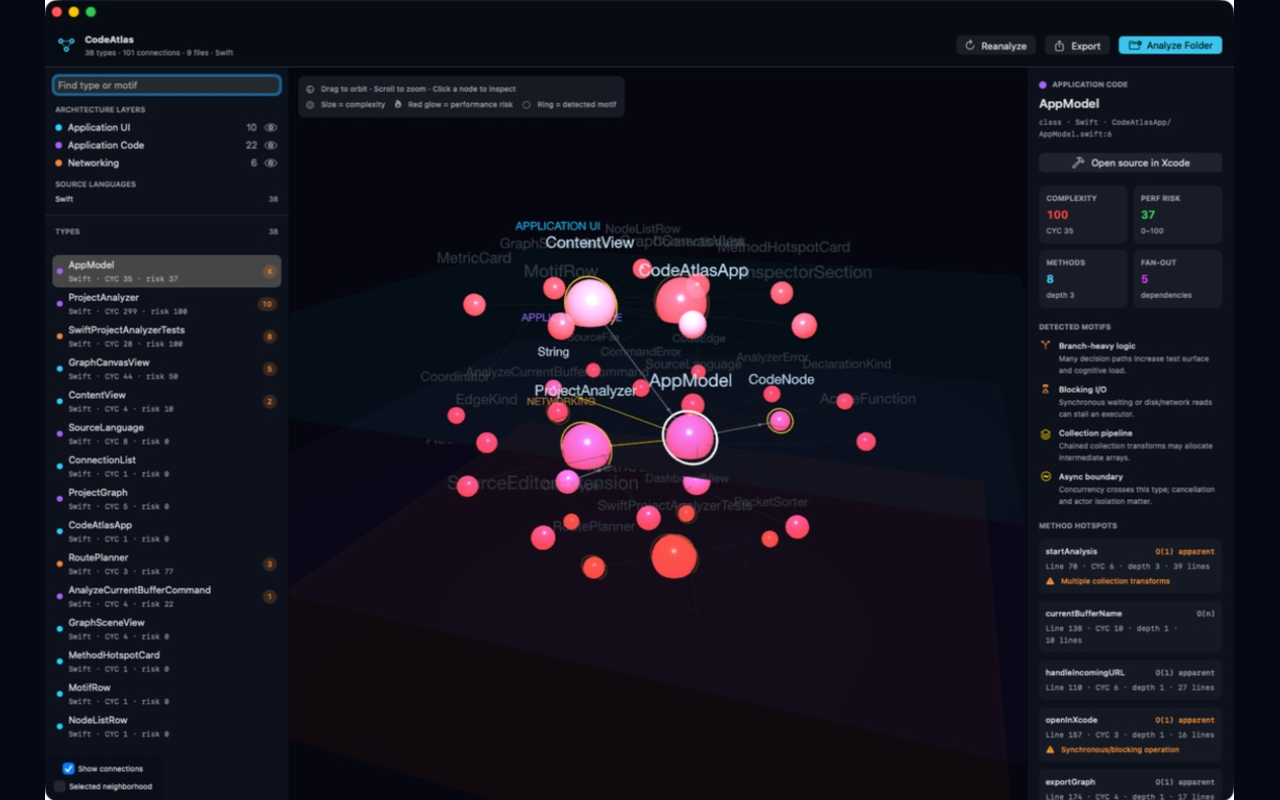
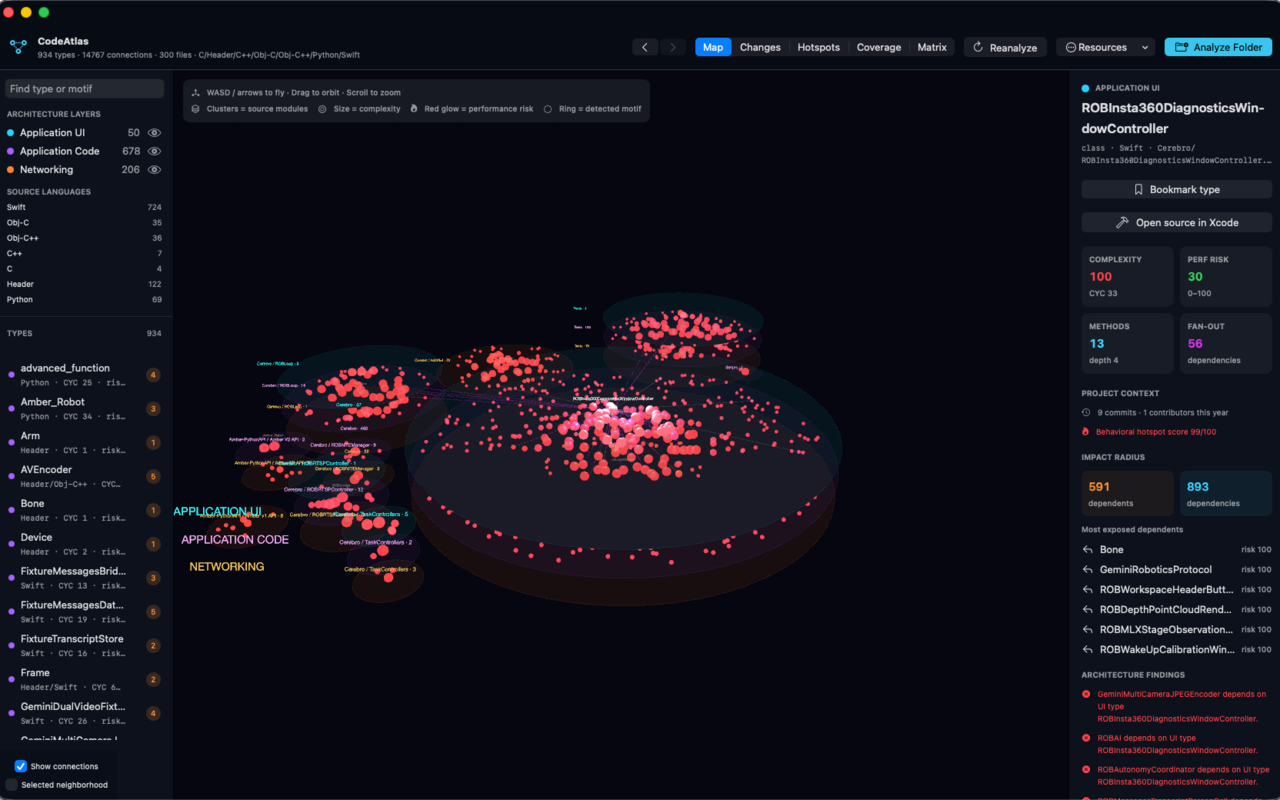
Show live CodeAtlas analysis and matrix

diff --git a/layouts/codeatlas/single.html b/layouts/codeatlas/single.html
@@ -41,22 +41,41 @@
     </div>
   </section>
 
-  <section id="review" class="codeatlas-story codeatlas-story--split" aria-labelledby="review-title">
+  <section id="analysis-progress" class="codeatlas-story codeatlas-story--split" aria-labelledby="analysis-progress-title">
     <div class="codeatlas-story__copy">
-      <p class="codeatlas-kicker">Git-aware review</p>
-      <h2 id="review-title">A diff tells you what changed. CodeAtlas shows what the change can reach.</h2>
-      <p>Choose a branch, tag, or commit as the baseline. CodeAtlas overlays added and modified files on the architecture, then walks dependencies in both directions to expose upstream requirements and downstream blast radius.</p>
+      <p class="codeatlas-kicker">Live analysis, without the blind wait</p>
+      <h2 id="analysis-progress-title">Every phase shows its work.</h2>
+      <p>Large repositories take real work to understand. CodeAtlas now reports overall progress, the active phase, exact file counts, and a live console while your graph is built.</p>
       <dl class="codeatlas-feature-list">
-        <div><dt>Baseline comparison</dt><dd>Review the current working tree against any Git revision without leaving the app.</dd></div>
-        <div><dt>Impact radius</dt><dd>Traverse every transitive dependent, not only the first visible edge.</dd></div>
-        <div><dt>Path finding</dt><dd>Reveal the shortest architectural path between the selected symbol and a suspected consumer.</dd></div>
-        <div><dt>Navigation memory</dt><dd>Move back and forward through selections, or bookmark the nodes that matter to the review.</dd></div>
+        <div><dt>Stage progress</dt><dd>Follow discovery, parsing, indexing, dependency linking, call enrichment, and graph metrics.</dd></div>
+        <div><dt>Per-file activity</dt><dd>See which source file is being read, parsed, indexed, or enriched right now.</dd></div>
+        <div><dt>Live console</dt><dd>Review timestamped events in place or open the full log when you need more detail.</dd></div>
+        <div><dt>In your control</dt><dd>Stop a run at any time, then reanalyze when the project is ready.</dd></div>
       </dl>
     </div>
     <figure class="codeatlas-story__screen">
-      {{ $cerebro := (resources.Get "images/products/codeatlas/codeatlas-cerebro.png").Process "webp q84" }}
-      <img src="{{ $cerebro.RelPermalink }}" width="{{ $cerebro.Width }}" height="{{ $cerebro.Height }}" alt="CodeAtlas visualizing the clustered architecture of the Cerebro robotics project" loading="lazy" decoding="async">
-      <figcaption><span>Cerebro project</span><strong>Clusters expose subsystem boundaries</strong></figcaption>
+      {{ $progress := (resources.Get "images/products/codeatlas/codeatlas-progress.png").Process "webp q84" }}
+      <img src="{{ $progress.RelPermalink }}" width="{{ $progress.Width }}" height="{{ $progress.Height }}" alt="CodeAtlas showing analysis progress and timestamped per-file console output while indexing the Cerebro robotics project" loading="lazy" decoding="async">
+      <figcaption><span>Cerebro / 300 files</span><strong>Progress and console output stay visible</strong></figcaption>
+    </figure>
+  </section>
+
+  <section id="dependency-matrix" class="codeatlas-story codeatlas-story--split" aria-labelledby="dependency-matrix-title">
+    <div class="codeatlas-story__copy">
+      <p class="codeatlas-kicker">Responsive at large-project scale</p>
+      <h2 id="dependency-matrix-title">Open the matrix. Keep moving.</h2>
+      <p>The dependency matrix is prepared on a background index and focuses on the most-connected types, so a graph with hundreds of symbols stays explorable instead of freezing the interface.</p>
+      <dl class="codeatlas-feature-list">
+        <div><dt>Fast entry</dt><dd>Switch from the 3D map to a useful matrix without rebuilding every relationship on the main thread.</dd></div>
+        <div><dt>Focused signal</dt><dd>See the 28 most-connected types first, with weighted cells that expose structural pressure.</dd></div>
+        <div><dt>Relationship detail</dt><dd>Distinguish references, construction, conformance, imports, and likely calls.</dd></div>
+        <div><dt>Shared context</dt><dd>Keep hotspots, impact radius, source links, and architecture findings beside the matrix.</dd></div>
+      </dl>
+    </div>
+    <figure class="codeatlas-story__screen">
+      {{ $matrix := (resources.Get "images/products/codeatlas/codeatlas-matrix.png").Process "webp q84" }}
+      <img src="{{ $matrix.RelPermalink }}" width="{{ $matrix.Width }}" height="{{ $matrix.Height }}" alt="CodeAtlas displaying a color-coded dependency matrix for 934 types in the Cerebro robotics project" loading="lazy" decoding="async">
+      <figcaption><span>934 types / 14,767 relationships</span><strong>Background-indexed and interactive</strong></figcaption>
     </figure>
   </section>
 
